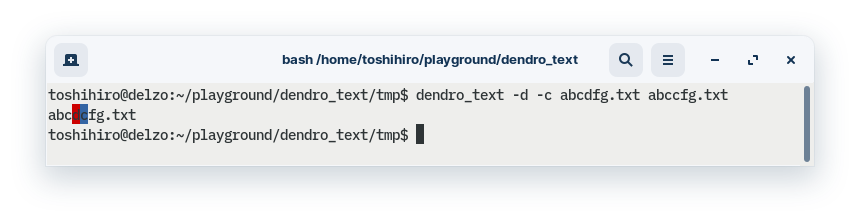
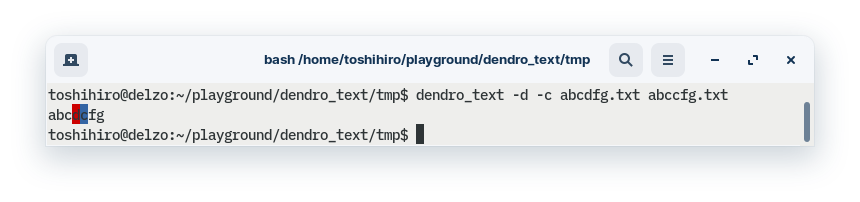
docs: revise the walk-thgough section a little bit

diff --git a/README.md b/README.md
@@ -115,7 +115,7 @@ Option `-B` is to prevent tree pictures from being corrupted in environments whe
 ```
 $ bash
 
-$ for t in ab{c,cc,ccc,cd,de}fg.txt; do echo $t > $t; done
+$ for t in ab{c,cc,ccc,cd,de}fg; do echo $t > $t.txt; done
 
 $ ls -1
 abcccfg.txt
@@ -123,6 +123,13 @@ abccfg.txt
 abcdfg.txt
 abcfg.txt
 abdefg.txt
+```
+
+Here, the content of each file is the same as its filename, e.g.:
+
+```
+$ cat abccfg.txt
+abccfg
 ```
 
 2. Create dendrograms showing file similarity by character-by-character comparison.
